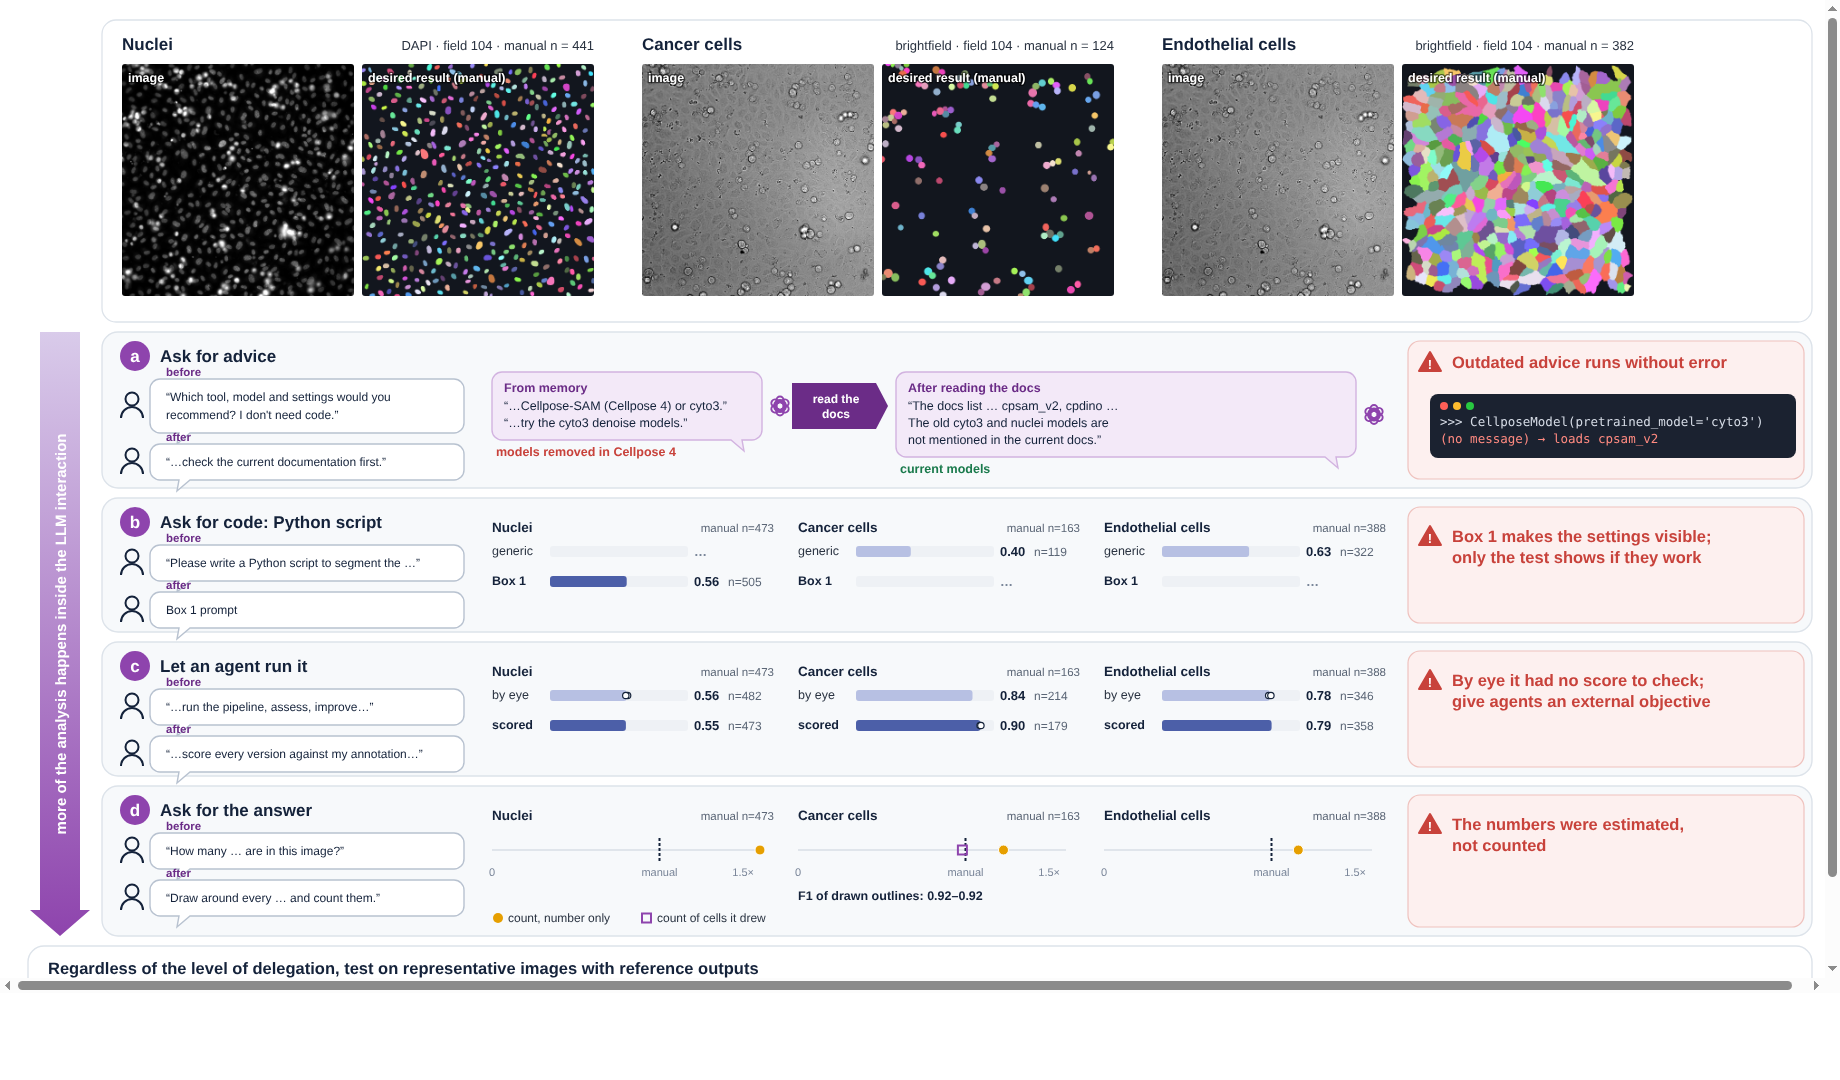
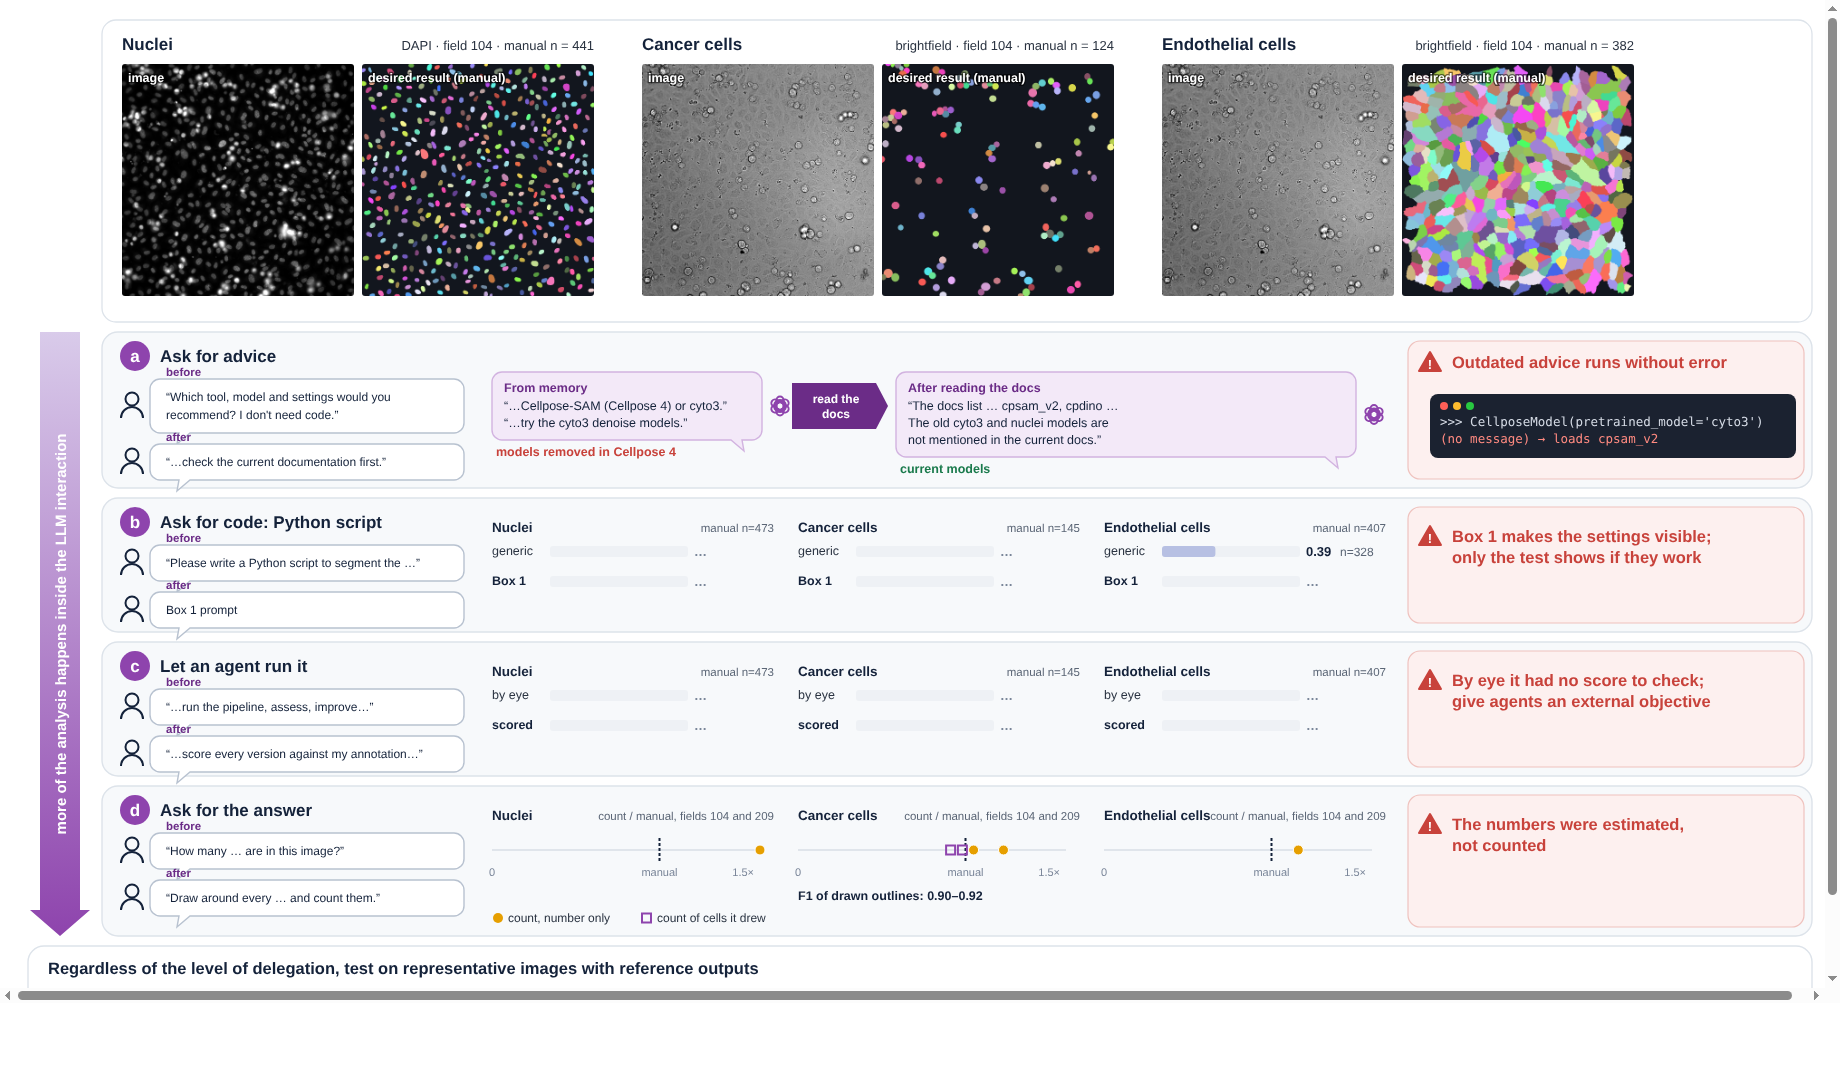
fig3: v2 figure uses the mean held-out F1 of fields 104 and 209 (rows b, c) and both whole fields (row d)
Claude-Session: https://claude.ai/code/session_01PJNT3JDnSo79DR4Hd7XwkY

diff --git a/fig3/figure_v2/code/make_fig3_v2.py b/fig3/figure_v2/code/make_fig3_v2.py
@@ -1,8 +1,9 @@
 """Figure 3 (protocol v2) in the layout of Figures 1 and 2: editable SVG built from the stored main runs.
 
 Reads fig3/v2/runs/*/score.json (see build_scores_v2 below), writes source_data/fig_scores_v2.json first, then draws.
-Row b is the Python script only (the Fiji test was dropped). Bars and circles show the TEST field 209; the images in the
-header are the development field 104. Re-run after every scenario: `make fig3v2` (cwd fig3/figure_v2/source_data).
+Row b is the Python script only (the Fiji test was dropped). Rows b and c: the model works on a mosaic of the left halves
+of fields 104 and 209; bars and circles show the mean of the F1 on the held-out right halves of the two fields (the
+images in the header are the whole development field 104). Row d: whole fields. Re-run after every scenario: `make fig3v2` (cwd fig3/figure_v2/source_data).
 Row a (illustration) and the red call-outs are round-1 wording until the v2 item tables and the full results are reviewed.
 """
 import csv
@@ -584,13 +585,15 @@ REF_209 = {}
 
 
 def build_scores_v2():
-    """Collect per-task lists from the stored v2 runs (test field 209); crashed or unscorable = -1 (drawn as x)."""
+    """Collect per-task lists from the stored v2 runs. Rows b and c: the mean of the F1 on the held-out right halves of
+    fields 104 and 209 (a failed field counts 0; both failed = -1, drawn as x). Row d: count / manual count, both fields."""
     with open("../../v2/scenarios.csv", newline="") as f:
         sc = {r["scenario_id"]: r for r in csv.DictReader(f)}
     tasks = {k: {"py": {"before": [], "after": [], "before_n": [], "after_n": []},
                  "agent": {"before": [], "after": [], "before_n": [], "after_n": []},
                  "draw": {"f1": [], "drawn": [], "asked": []}, "default": None} for k in TASK_IDS}
     n_runs = 0
+    n_ref = {k: 0 for k in TASK_IDS}
     for sid, r in sc.items():
         sp = _os.path.join(RUNS, sid, "score.json")
         if not _os.path.exists(sp):
@@ -599,25 +602,29 @@ def build_scores_v2():
         d, task = json.load(open(sp)), r["task"]
         T = tasks[task]
         if r["row"] in ("code", "optimise"):
-            res = d["f209"]
-            ok = res["status"] == "ok"
+            fields = [d["f104"], d["f209"]]
+            ok = [f["status"] == "ok" for f in fields]
             blk = T["py"] if r["row"] == "code" else T["agent"]
             side = "before" if r["condition"] in ("simple", "by_eye") else "after"
-            blk[side].append(res["f1"] if ok else -1)
-            blk[side + "_n"].append(res["n_pred"] if ok else None)
-        elif r["row"] == "direct" and d["field"] == 209:
+            blk[side].append(d["mean"]["f1"] if any(ok) else -1)
+            blk[side + "_n"].append(sum(f["n_pred"] for f in fields) if all(ok) else None)
+            if all(ok):
+                n_ref[task] = sum(f["n_ref"] for f in fields)
+        elif r["row"] == "direct":
             ok = d["turn3"]["status"] == "ok"
+            ref = d["reference"]["count"]
             T["draw"]["f1"].append(d["turn3"]["f1"] if ok else None)
-            T["draw"]["drawn"].append(d["turn3"]["n_drawn"] if ok else None)
-            T["draw"]["asked"].append(d["turn1"]["count"])
-    return {"tasks": tasks, "n_runs": n_runs}
+            T["draw"]["drawn"].append(d["turn3"]["n_drawn"] / ref if ok else None)
+            T["draw"]["asked"].append(d["turn1"]["count"] / ref if d["turn1"]["count"] is not None else None)
+    return {"tasks": tasks, "n_runs": n_runs, "n_ref_heldout": n_ref}
 
 
 FSJ = build_scores_v2()
 json.dump(FSJ, open("fig_scores_v2.json", "w"), indent=1)
 FS = FSJ["tasks"]
-from fig3.v2.score import reference_summary   # manual annotation of the test field (data/raw)
-MAN = {k: reference_summary(k, 209)["count"] for k in TASK_IDS}
+from fig3.scoring.tasks import heldout_reference   # manual annotation, held-out right halves (data/raw)
+import numpy as _np
+MAN = {k: sum(int(len(_np.unique(heldout_reference(k, f))) - 1) for f in (104, 209)) for k in TASK_IDS}
 MAN104 = {"nuclei": 441, "cancer": 124, "endo": 382}
 DEFC = "#9aa4b2"
 CAVF, CAVS = "#fdf0ef", "#efc2be"
@@ -781,13 +788,13 @@ y = ry[key] + 34
 for i, (task, name, _) in enumerate(TASKS):
     x = CX_SC + i * (GW + GG)
     dd = FS[task]["draw"]
-    man = MAN[task]
+    man = 1.0                                   # values are count / manual count (both whole fields)
     bw = GW - 20
     X = lambda v: x + min(v / man, 1.6) / 1.6 * bw
-    gg = [t(x, y, name, 13.5, "bold", INK) + t(x + GW - 6, y, f"manual n={man}", 11.5, fill="#5b6676", anchor="end"),
+    gg = [t(x, y, name, 13.5, "bold", INK) + t(x + GW - 6, y, "count / manual", 11.5, fill="#5b6676", anchor="end"),
           f'<line x1="{x}" y1="{y+30}" x2="{x+bw}" y2="{y+30}" stroke="#c9d1dc" stroke-width="1.2"/>',
           f'<line x1="{X(man):.1f}" y1="{y+18}" x2="{X(man):.1f}" y2="{y+42}" stroke="{INK}" stroke-width="2" stroke-dasharray="3 2"/>']
-    for v in dd["asked"]:
+    for v in [v for v in dd["asked"] if v is not None]:
         gg.append(f'<circle cx="{X(v):.1f}" cy="{y+30}" r="5" fill="{MCOL["sonnet"]}" stroke="#fff" stroke-width="1"/>')
     for v in dd["drawn"]:
         if v is not None:
@@ -842,7 +849,7 @@ for i, (ic, a_) in enumerate(KEEP):
     x = 48 + i * KW
     add(kicon(ic, x + 20, KY + 62, ACC) + t(x + 48, KY + 67, a_, 14.5, "bold", INK))
 
-add(t(1812 - 14, KY + KH + 18, f"DRAFT: {FSJ['n_runs']} of 72 main runs scored. Bars: median F1 on test field 209 (open circles: runs; x: crashed or no valid output); images above: development field 104.",
+add(t(1812 - 14, KY + KH + 18, f"DRAFT: {FSJ['n_runs']} of 72 main runs scored. Rows b, c: bar = median of the runs' mean F1 on the held-out halves of fields 104 and 209 (open circles: runs; x: failed). Images above: field 104.",
       12, fill="#7a8699", anchor="end"))
 H = KY + KH + 34
 svg = (f'<?xml version="1.0" encoding="UTF-8"?>\n'
